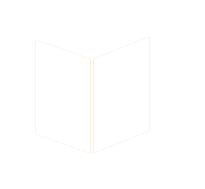
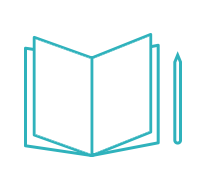
Changed appropriate pictures and font style

Changed region(s): [[0.1171, 0.1587, 0.7902, 0.8466], [0.8195, 0.2646, 0.9073, 0.7672]]

diff --git a/css/style.css b/css/style.css
@@ -6,24 +6,21 @@ body {
 }
 
 h1 {
-	font-size: 40px;
-	font-weight: 600;
+	font-size: 8em;
+	font-weight: 900;
 	text-transform: uppercase;
 }
 h2 {
-	font-size: 36px;
-	font-weight: 500;
-	line-height: 1.3em;
+	font-size: 7.5em;
+	font-weight: 900;
 }
 h3 {
-	font-size: 28px;
+	font-size: 3.5em;
 	font-weight: 500;
-	line-height: 0.7em;
 }
 h4 {
-	font-size: 28px;
+	font-size: 1.8em;
 	font-weight: 500;
-	line-height: 0.6em;
 }
 h5 {
 	font-size: 24px;
@@ -96,17 +93,20 @@ h6 {
 	margin-top: 200px;
 }
 .char-spec {
-	margin-top: 10%;
+	margin-top: 3%;
 	border-top: 3px solid #86cec5;
 }
 .big-greetings {
-	padding-top: 5%;
+	padding-top: 2%;
 }
 .big-greetings h2, h3{
-	color: #86cec5;
+	color: #3de2da;
+
 }
 .big-greetings p {
+	font-size: 1.3em;
 	font-weight: 900;
+	color: #3de2da;
 }
 .hammie-blocks {
 	margin-top: 50px;
@@ -269,10 +269,8 @@ h6 {
   margin: auto;
 }
 
-
-
 .advantage {
-	color: white;
+
 }
 .advantage-img {
 	width: 180px;
@@ -284,7 +282,12 @@ h6 {
 	text-align: center;
 	margin-top: -15px;
 	margin-right: 20px;
+	color: #2fb2bc;
 }
+.advantage-description h4 {
+	color: #2fb2bc;	
+}
+
 .package-picture-img {
 	width: 100%;
 	height: 400px;
@@ -309,7 +312,7 @@ footer.hm-footer .about {
 	text-align: center; }
 footer.hm-footer .about p {
 	font-size: 13px;
-	color: #999;
+	color: #696969;
 	margin-top: 30px; }
 footer.hm-footer .about .social-media {
 	margin-top: 15px; }
@@ -329,7 +332,7 @@ footer.hm-footer .about .social-media ul li a:hover {
 footer.hm-footer .footer-info-single {
 	margin-top: 30px; }
 footer.hm-footer .footer-info-single .title {
-	color: #aaa;
+	color: #505050;
 	text-transform: uppercase;
 	font-size: 16px;
 	border-left: 4px solid #ffdd1c;
@@ -347,7 +350,7 @@ footer.hm-footer .footer-info-single form button{
 }
 footer.hm-footer .footer-info-single ul li a {
 	display: block;
-	color: #aaa;
+	color: #696969;
 	padding: 2px 0; }
 footer.hm-footer .footer-info-single ul li a:hover {
 	text-decoration: none;
@@ -355,12 +358,12 @@ footer.hm-footer .footer-info-single ul li a:hover {
 footer.hm-footer .footer-info-single p {
 	font-size: 13px;
 	line-height: 20px;
-	color: #aaa; }
+	color: #696969; }
 footer.hm-footer .copyright {
 	margin-top: 5px;
 	background: #86cec5;
 	padding: 5px 0;
-	color: #999; }
+	color: #696969; }
 footer.hm-footer .copyright p {
 	text-align: center;
 	margin: 0;

diff --git a/index.html b/index.html
@@ -129,8 +129,8 @@
 		<section id="Hammie-Blocks">
 			<div class="container-fluid">
 				<div class="hammie-blocks col-md-10 col-md-offset-1">
-					<h2>The Most Adventrous Way to Play Blocks</h2>
-					<img src="images/hammie_blocks.png" alt="Hammie Blocks">
+					<h3>The Most Adventrous Way to Play Blocks</h3>
+					<img src="images/blockAnimation.gif" alt="Hammie Blocks">
 				</div>
 			</div>	
 		</section>
@@ -145,7 +145,7 @@
 							</div>
 							<div class="advantage-description">
 								<div class="title">
-									<h3>Nontoxic</h3>
+									<h4>Nontoxic</h4>
 								</div>
 								<div class="subtitle">
 									<p>Hammie blocks are made of silicon</br> which is completely safe to human body.</p>
@@ -158,7 +158,7 @@
 							</div>
 							<div class="advantage-description">
 								<div class="title">
-									<h3>Educational</h3>
+									<h4>Educational</h4>
 								</div>
 								<div class="subtitle">
 									<p>The most adventurous way to play blocks</br> for our future engineers!</p>
@@ -171,7 +171,7 @@
 							</div>
 							<div class="advantage-description">
 								<div class="title">
-									<h3>Washable</h3>
+									<h4>Washable</h4>
 								</div>
 								<div class="subtitle">
 									<p>100% Washable! You can't also boil the blocks.</br>It won't get discolored.</p>
